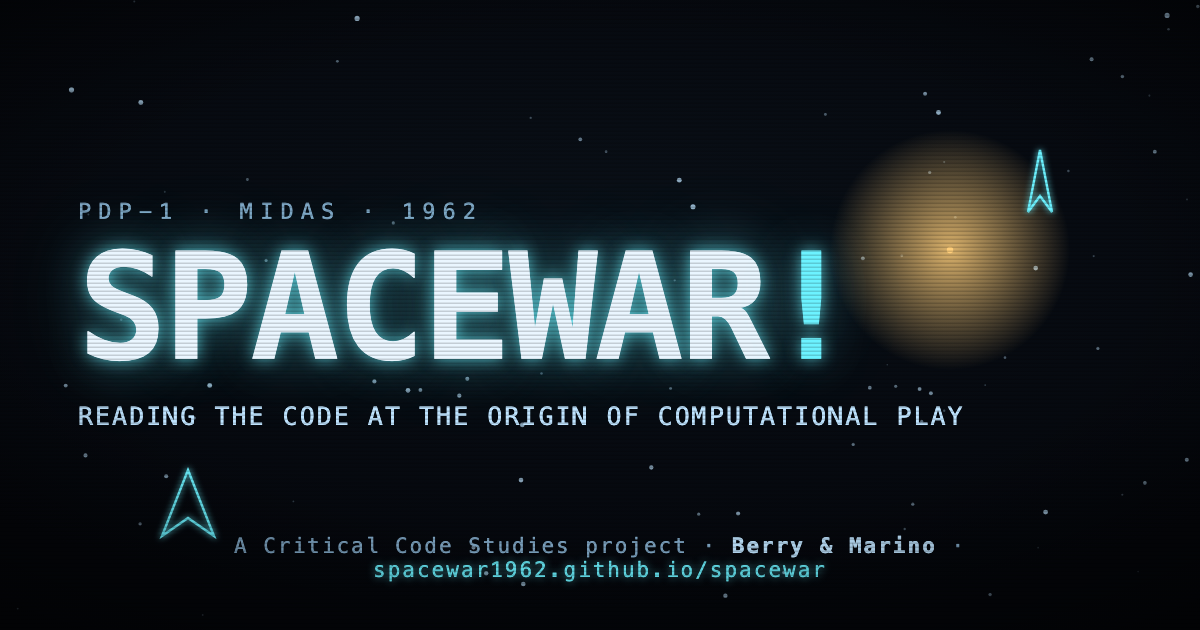
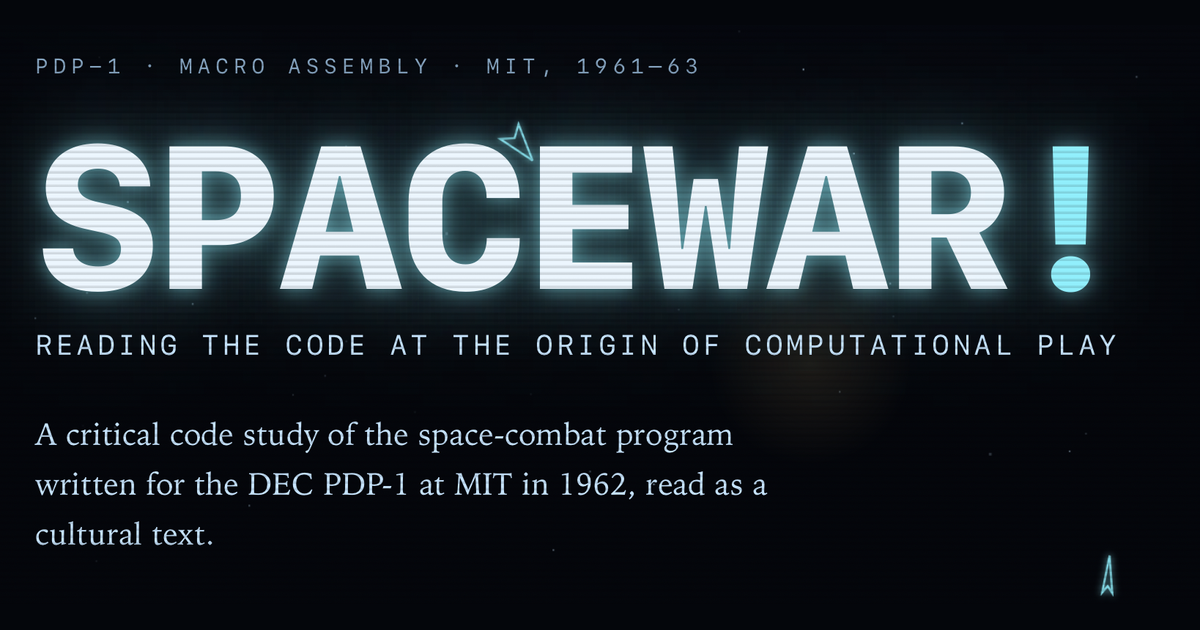
Use David's DB CARD design for OG/social cards; add CHM PDP-1 system photo
- Regenerate assets/og-card.png (1200x630) and social-preview.png (1280x640)
  from assets/DB CARD.png, fitted on the dark phosphor background
- Back up the original MIDAS OG cards to assets/backups/
- Add the CHM restored-PDP-1 system photo to pdp1.html (what it was section)
- Add .webp to the pdp1 image-modal selector so the photo opens full-size

diff --git a/pdp1.html b/pdp1.html
@@ -129,6 +129,11 @@
         <tr><th>Price</th><td>about US$120,000</td></tr>
         <tr><th>Units built</th><td>53 (to 1969)</td></tr>
       </table>
+
+      <figure style="margin:1.4rem 0 0;">
+        <a href="assets/images/pdp1-chm-e1496179960838.webp" target="_blank" rel="noopener noreferrer" title="Click to view full size"><img src="assets/images/pdp1-chm-e1496179960838.webp" alt="A restored DEC PDP-1 system at the Computer History Museum" style="width:100%;height:auto;display:block;border:1px solid var(--line);background:#0b0f0c;padding:0.35rem;"></a>
+        <figcaption style="font-size:0.6rem;line-height:1.5;color:var(--phosphor-dim);margin-top:0.4rem;">A restored DEC PDP-1, the main cabinet with its Type 30 Precision CRT, paper-tape equipment and console typewriter. Computer History Museum. <span style="display:block;margin-top:0.2rem;">Click to view full size.</span></figcaption>
+      </figure>
     </section>
 
     <div class="rule"><span>the screen</span></div>
@@ -240,7 +245,7 @@
     var m = document.getElementById('imodal'), mi = document.getElementById('imodalImg'), mc = document.getElementById('imodalClose');
     function openM(src) { mi.src = src; m.classList.add('open'); m.setAttribute('aria-hidden', 'false'); }
     function closeM() { m.classList.remove('open'); m.setAttribute('aria-hidden', 'true'); mi.src = ''; }
-    var links = document.querySelectorAll('figure a[href$=".png"], figure a[href$=".jpg"], figure a[href$=".jpeg"]');
+    var links = document.querySelectorAll('figure a[href$=".png"], figure a[href$=".jpg"], figure a[href$=".jpeg"], figure a[href$=".webp"]');
     Array.prototype.forEach.call(links, function (a) {
       a.addEventListener('click', function (e) { e.preventDefault(); openM(a.getAttribute('href')); });
     });
